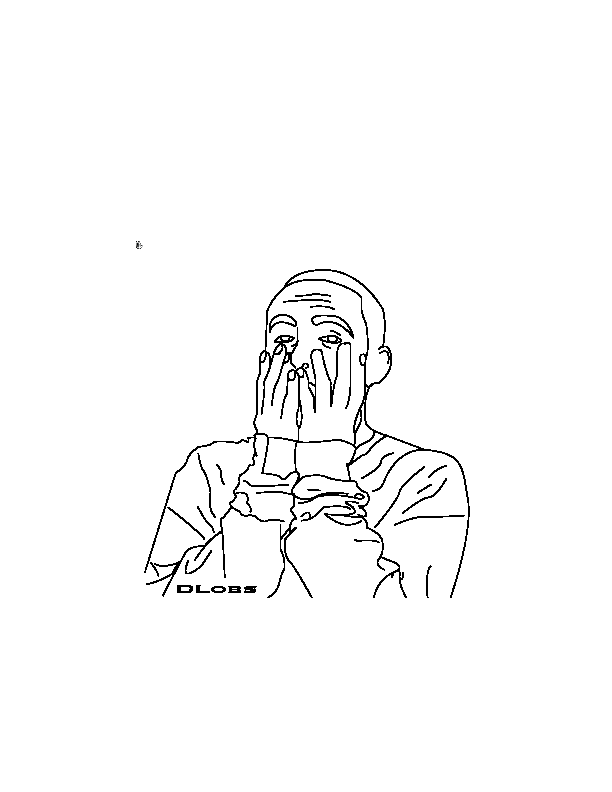
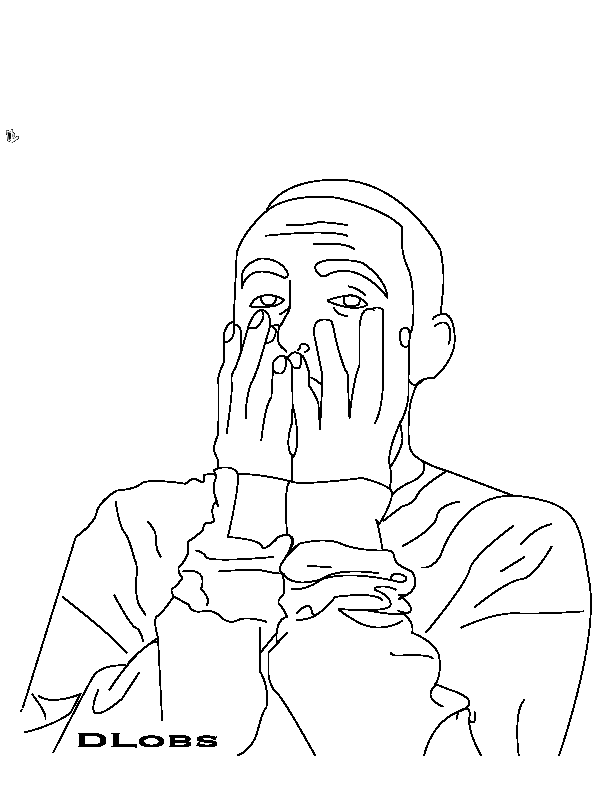
commit
9-7-19

diff --git a/index.html b/index.html
@@ -1,6 +1,7 @@
 <!doctype html>
 <html class="no-js" lang="en" dir="ltr">
   <head>
+    <link href="https://fonts.googleapis.com/css?family=PT+Sans+Narrow&display=swap" rel="stylesheet">
     <link href="https://fonts.googleapis.com/css?family=Fjalla+One&display=swap" rel="stylesheet">
     <meta charset="utf-8">
     <meta http-equiv="x-ua-compatible" content="ie=edge">
@@ -19,30 +20,39 @@
 <div class="block_1 hline-bottom"></div>
      <img src="img/music-note.png" id="note2" alt="musicnote">
    <img src="img/mac-miller-.png" id="malcom" alt="macmiller">
+   <img src="img/music-note.png" id="note3" alt="musicnote">
+   <img src="img/Untitled-2.png" id="slide" alt="slide">
+   <img src="img/Untitled-2.png" id="slide1" alt="slide">
  </div>
 
     <div class="panel">
-       <img src="img/lifeline.png" id="lifeline" alt="lifeline">
+       <img class="lifeline" src="img/lifeline.png" alt="lifeline">
+        <img class="PA" src="img/pittsburgh.png" alt="pa">
     <h1>1992</h1>
 <div class="grid-container">
     <div class="grid-x">
-  <div class="cell large-5 medium-4 small-3">
-    <p>Malcolm James McCormick was born on January 19, 1992,[2] in Point Breeze, Pittsburgh, Pennsylvania.</p>
+  <div id="p1" class="cell large-5 medium-4 small-3">
+    <p>Malcolm James McCormick was born on January 19, 1992, in Point Breeze, Pittsburgh, Pennsylvania.</p>
+    <h2 id="date1">1992</h2>
   </div>
  <div id="p2" class="cell large-5 medium-4 small-3">
-     <p>He was the son of Karen Meyers, a photographer, and Mark McCormick, an architect,[4] and had an older brother, Miller. His mother is Jewish, and his father is Christian.</p>
+   <img class="parents" src="img/macrents.png" alt="parents">
+     <p>He was the son of Karen Meyers, a photographer, and Mark McCormick, an architect, and had an older brother, Miller. His mother is Jewish, and his father is Christian.</p>
+     <h3 id="date">1992</h3>
    </div>
 </div>
-
     </div>
   </div>
 
  
 
     <div class="panel">
+           <h1>'07-'10</h1>
+          <img class="lifeline" src="img/lifeline.png" alt="lifeline">
+            <img id="ezmac" src="img/ez-mac.png" alt="ezmac">
+
       <h1>'07-'10</h1>
       <p>Miller originally went by the name Easy Mac and released the mixtape But My Mackin' Ain't Easy in 2007 at the age of fifteen.</p>
-<img id="lifeline" src="img/lifeline.png" alt="lifeline">
 <p>hmm</p>
     </div>
     <div class="panel">
@@ -76,7 +86,7 @@
   </div>
 </main>
 
-<ul>
+<ul class="selected">
   <li>Home</li>
   <li>1992</li>
   <li>'07-'10</li>

diff --git a/css/app.css b/css/app.css
@@ -4,19 +4,83 @@
   box-sizing: border-box;
 }
 
-#lifeline {
+#slide{
   position:absolute;
-  top:10rem;
+  top:-14rem;
+  left:-14rem;
+  opacity:0.5;
 }
 
+#slide1{
+  z-index:1;
+  position:absolute;
+  top:-25rem;
+  left:-10rem;
+  height:100rem;
+  opacity:0.2;
+
+}
+ul .selected{
+  font-weight:200px;
+}
+#date{
+  color:red;
+  font-family: 'PT Sans Narrow', sans-serif;
+  position:absolute;
+  top:0rem;
+  left:-5rem;
+
+}
+#date1{
+  font-family: 'PT Sans Narrow', sans-serif;
+  color:red;
+  font-size:40px;
+  position:absolute;
+  top:3.5rem;
+ left:1rem;
+}
+.parents{
+  position:absolute;
+  bottom:-5rem;
+}
+
+#note3{
+  z-index:1;
+  position:absolute;
+  top:-8rem;
+  transform:rotate(-20deg);
+  height:60rem;
+  left:-10rem;
+  opacity:0.5;
+}
+.lifeline{
+  position:absolute;
+  top:4.4rem;
+}
+.PA{
+  opacity:0.7;
+  z-index:1;
+  position:absolute;
+  top:-5rem;
+  left:10rem;
+}
 main {
 	background-color:#FFF599;
   overflow: hidden;
 }
+#p1{
+  font-size:20px;
+  font-family: 'PT Sans Narrow', sans-serif;
+  position:absolute;
+  top:6rem;
+
+}
 #p2{
+  font-size:20px;
+  font-family: 'PT Sans Narrow', sans-serif;
 	z-index:2;
   position:absolute;
-  bottom:5rem;
+  bottom:0rem;
   right:5rem;
 }
 
@@ -24,7 +88,7 @@ hr {
     display: block;
     height: 1px;
     border: 0;
-    border-top: 1px solid #ccc;
+    border-top: 3px solid #ccc;
     margin: 1em 0;
     padding: 0;
 }
@@ -32,22 +96,23 @@ hr {
 .hline-bottom {
 	z-index:1;
     padding-bottom: 400px;
-    border-bottom: 5px solid #000; 
+    border-bottom: 6px solid #000; 
     color:black/* whichever color you prefer */
 }
 #malcom{
+  z-index:2;
 	position:absolute;
-	top:-25rem;
-	left:10rem;
-	height:90rem;
+	top:-15rem;
+	left:25rem;
+	height:70rem;
 }
 #note2{
 	transform:rotate(20deg);
 	opacity:0.5;
-	right:45rem;
-	top:-15rem;
+	right:30rem;
+	top:-25rem;
 	position:absolute;
-	height:75rem;
+	height:100rem;
 }
 .name{
 	z-index:2;
@@ -57,7 +122,7 @@ hr {
 }
 
 .musicnote{
-	z-index:1;
+	z-index:2;
 	position:absolute;
 	top:25px;
 	left:2px;
@@ -86,12 +151,11 @@ hr {
   &:nth-child(3){
     background-color: #666;
   }
-  h1 {
-    font-size: 15px;
-    letter-spacing: -2px;
-  }
 }
-
+h1{
+  font-family: 'Fjalla One', sans-serif;
+  color:black;
+}
 ul {
   display: flex;
   justify-content: flex-end;
